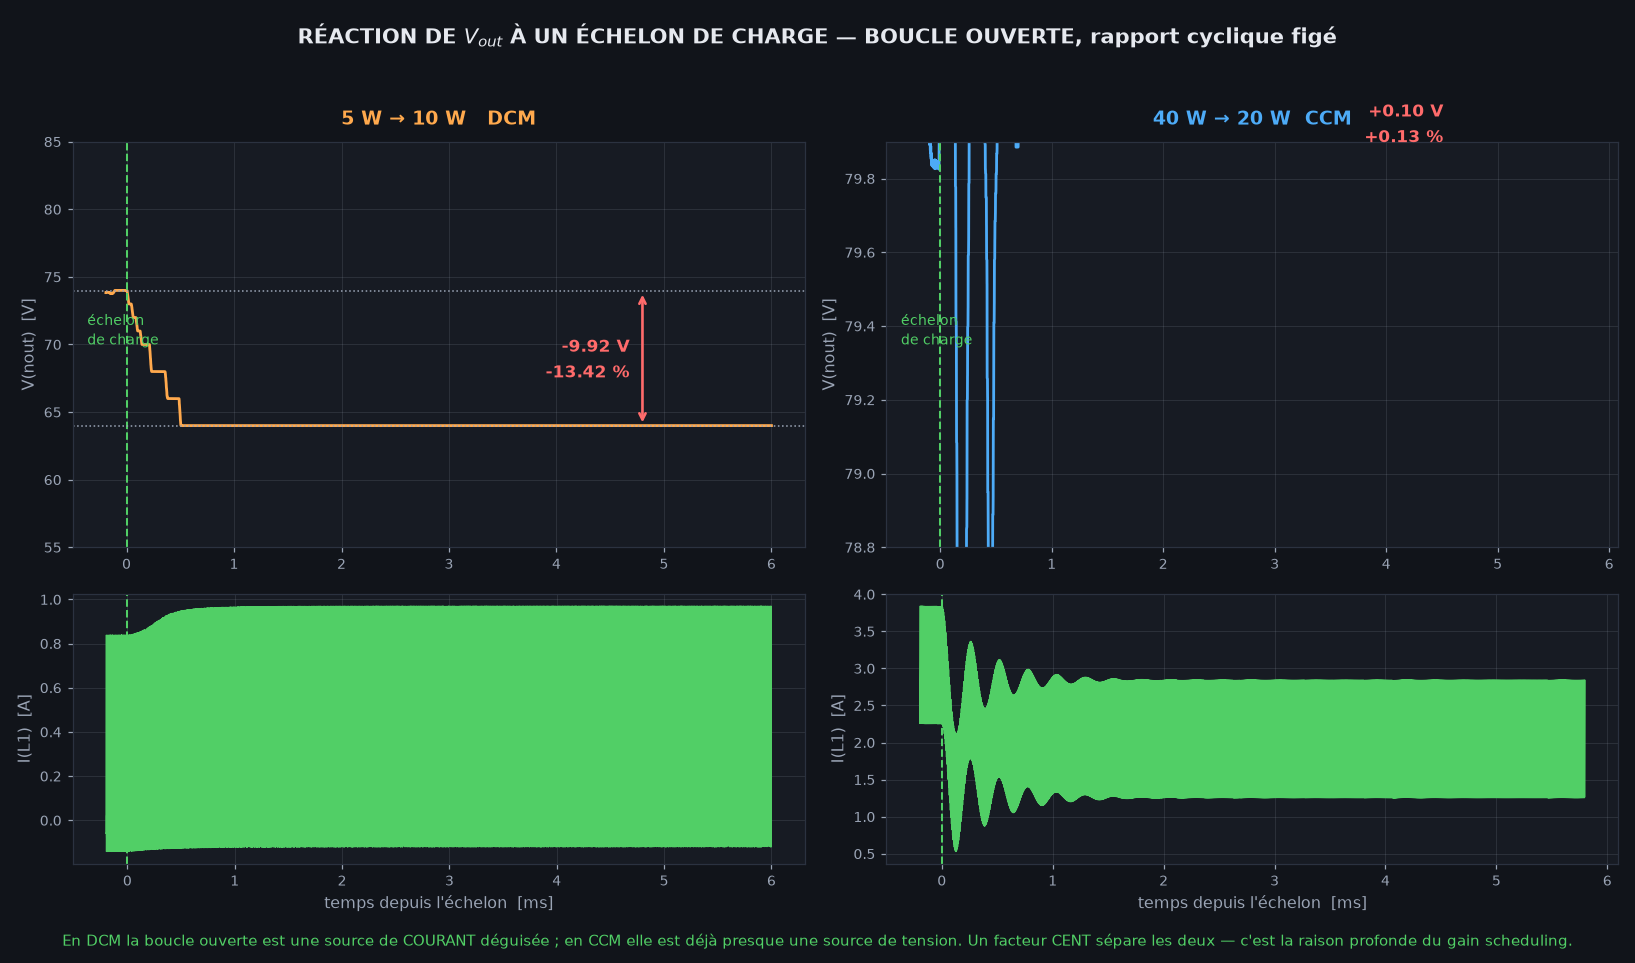
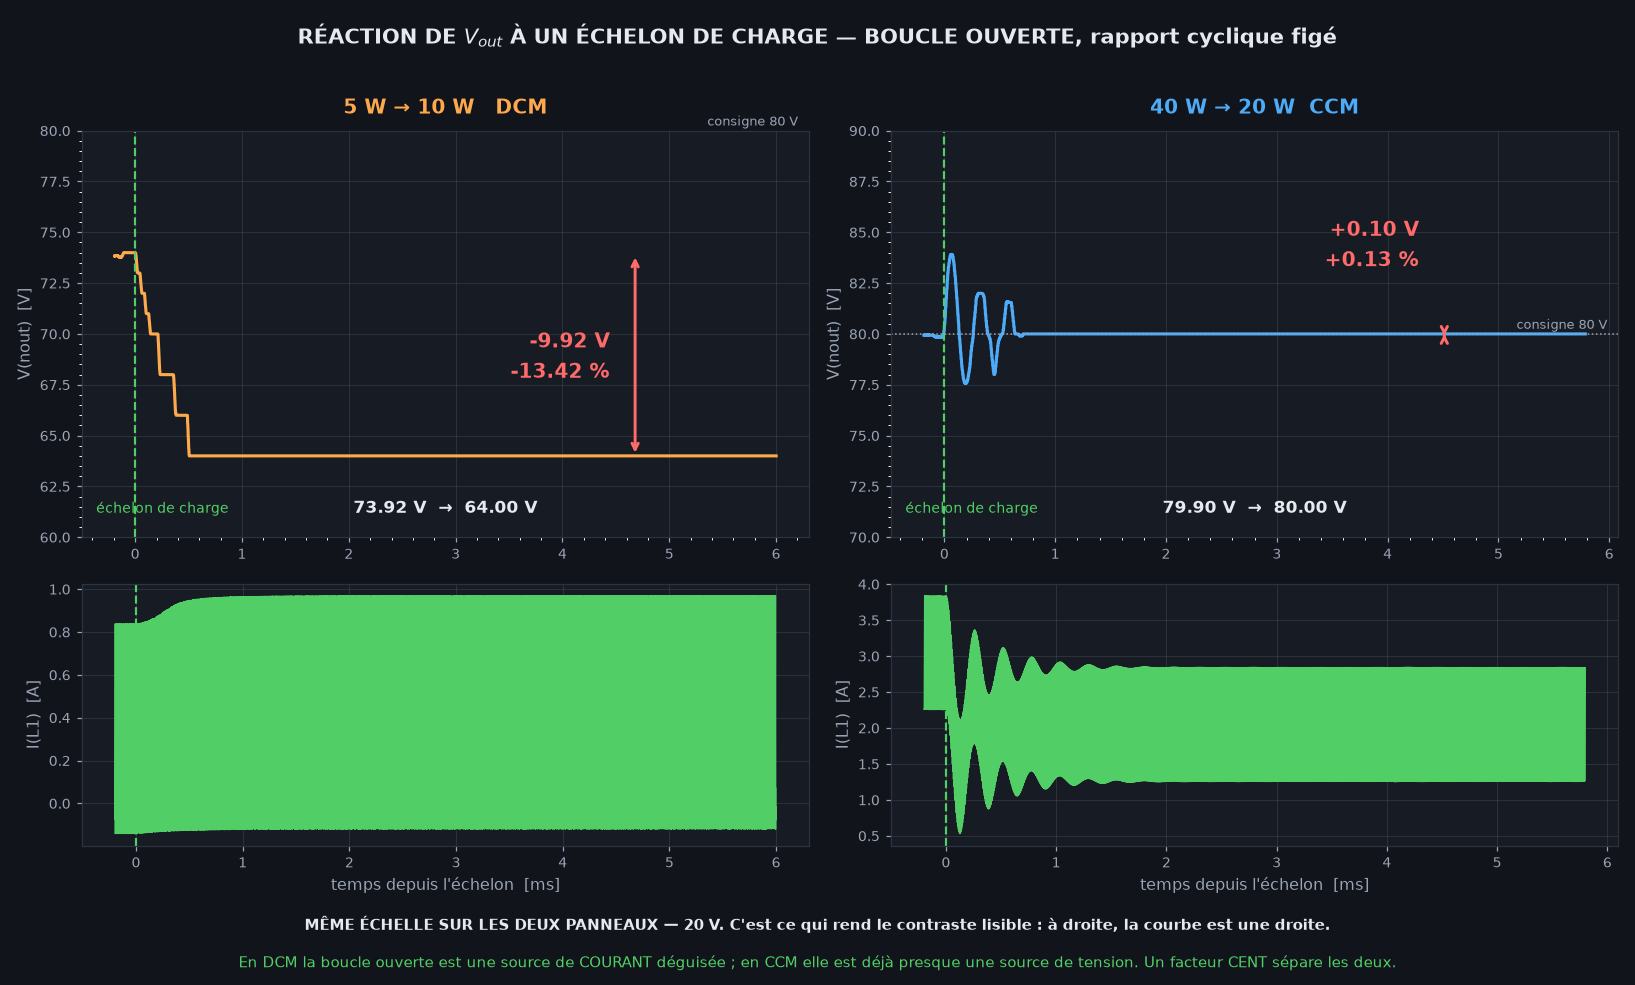
Echelles remises a 20 V : l'axe borne cachait un depassement de 4 V
Le concepteur a demande de refaire l'echelle du panneau CCM -- "on ne voit
rien". Il avait raison, et pour une raison plus grave que la lisibilite.

Les deux panneaux d'une meme figure avaient des echelles DIFFERENTES :
55 a 85 V a gauche, 1,1 V a droite. Un ecart de 0,10 V occupait donc un
dixieme du cadre et paraissait enorme, pendant que les 10 V du DCM
paraissaient modestes. Mais surtout, le DEPASSEMENT TRANSITOIRE A 84 V
ETAIT HORS CADRE.

TROISIEME FOIS EN DEUX JOURS
  J6   axe a 228 V          cachait 742 V de surtension d'ouverture
  K2   axe a -95 V          cachait -113,2 V d'excursion negative
  Q    axe a 78,8-79,9 V    cachait +84 V, un depassement de 4 V

La vigilance n'y suffit pas. Tracer une fois SANS BORNE doit preceder
tout choix d'echelle, et deux panneaux compares doivent partager la leur.

CE QUE LE DEPASSEMENT APPORTE

Il CONFIRME R1 PAR UNE SECONDE VOIE. La reponse a l'echelon montre en CCM
une sonnerie amortie de ~3 cycles en 0,7 ms, soit ~4 kHz -- le pole double
mesure au Bode vaut 3,90 kHz. En DCM, descente en escalier sans aucune
sonnerie : plant du premier ordre, comme annonce. Temporel et frequentiel,
mesures independamment, disent la meme chose.

Et il change une conclusion pratique : EN CCM L'EXCURSION UTILE N'EST PAS
L'ECART STATIQUE DE 0,10 V, C'EST LE DEPASSEMENT DE 4 V. C'est cela que
la boucle devra amortir -- et ca deplace le cahier des charges du
correcteur, qui n'a pas a corriger une erreur statique quasi nulle mais a
[…]

diff --git a/05-regulation/r1b_echelon.py b/05-regulation/r1b_echelon.py
@@ -173,10 +173,10 @@ def main() -> int:
         a.set_ylabel("V(nout)  [V]", color=V, fontsize=10.5)
         a.set_title(lib, color=(BL if k else OR), fontsize=12.5, pad=11,
                     weight="bold")
-        if k == 0:
-            a.set_ylim(55, 85)
-        else:
-            a.set_ylim(78.8, 79.9)
+        a.set_ylim(*((60, 80) if k == 0 else (70, 90)))
+        # la valeur reste lisible meme quand la courbe est plate
+        a.text(.5, .09, f"{av:.2f} V → {ap:.2f} V", transform=a.transAxes,
+               ha="center", color="#e6e9ef", fontsize=10.5, weight="bold")
 
         a = ax[1, k]
         a.set_facecolor(G); a.grid(alpha=.17, color=V, lw=.6)
@@ -193,6 +193,10 @@ def main() -> int:
     fig.suptitle("RÉACTION DE $V_{out}$ À UN ÉCHELON DE CHARGE — "
                  "BOUCLE OUVERTE, rapport cyclique figé",
                  color="#e6e9ef", fontsize=13.5, weight="bold", y=.975)
+    fig.text(.5, .052, "MÊME ÉCHELLE SUR LES DEUX PANNEAUX — 20 V. "
+             "C'est ce qui rend le contraste lisible : à droite, la courbe "
+             "est une droite.", ha="center", color="#e6e9ef", fontsize=9.6,
+             weight="bold")
     fig.text(.5, .018, "En DCM la boucle ouverte est une source de COURANT "
              "déguisée ; en CCM elle est déjà presque une source de tension. "
              "Un facteur CENT sépare les deux — c'est la raison profonde du "

diff --git a/04-emi/RETEX-erreurs.md b/04-emi/RETEX-erreurs.md
@@ -828,3 +828,40 @@ C'est ma lecture qui était fausse, et précisément sous 40 V où une
 Le réflexe à garder : quand une fiche publie à la fois une courbe et
 une intégrale de cette courbe, **intégrer la courbe lue** avant de s'en
 servir comme étalon.
+
+## Q — L'axe borné, troisième fois (2026-11-22)
+
+| | l'axe | ce qu'il cachait |
+|---|---|---|
+| J6 | 228 V | **742 V** de surtension d'ouverture |
+| K2 | −95 V | **−113,2 V** d'excursion négative |
+| **Q** | **78,8 à 79,9 V** | **+84 V**, un dépassement de 4 V |
+
+Les deux panneaux d'une même figure avaient des échelles différentes —
+55 à 85 V d'un côté, 1,1 V de l'autre. Deux conséquences, et la seconde
+est pire :
+
+1. un écart de 0,10 V occupait un dixième du cadre et **paraissait
+   énorme**, pendant que les 10 V du DCM paraissaient modestes ;
+2. le **dépassement transitoire à 84 V était hors cadre**, donc invisible.
+
+C'est le concepteur qui a demandé le changement d'échelle — « on ne voit
+rien ». Remises à 20 V des deux côtés, la figure dit enfin ce qu'elle
+mesure.
+
+> Trois fois la même faute en deux jours. La vigilance n'y suffit pas :
+> **tracer une fois sans borne** doit précéder tout choix d'échelle, et
+> deux panneaux comparés doivent partager la leur.
+
+### Ce que le dépassement apporte
+
+Il **confirme R1 par une seconde voie**. La réponse à l'échelon montre
+une sonnerie amortie de ~3 cycles en 0,7 ms, soit **~4 kHz** — le pôle
+double mesuré au Bode vaut **3,90 kHz**. En DCM, descente en escalier
+sans aucune sonnerie : plant du premier ordre, comme annoncé.
+
+Temporel et fréquentiel, mesurés indépendamment, disent la même chose.
+
+Et il **change une conclusion pratique** : en CCM l'excursion utile
+n'est pas l'écart statique de 0,10 V, c'est le **dépassement de 4 V**.
+C'est cela que la boucle devra amortir.
